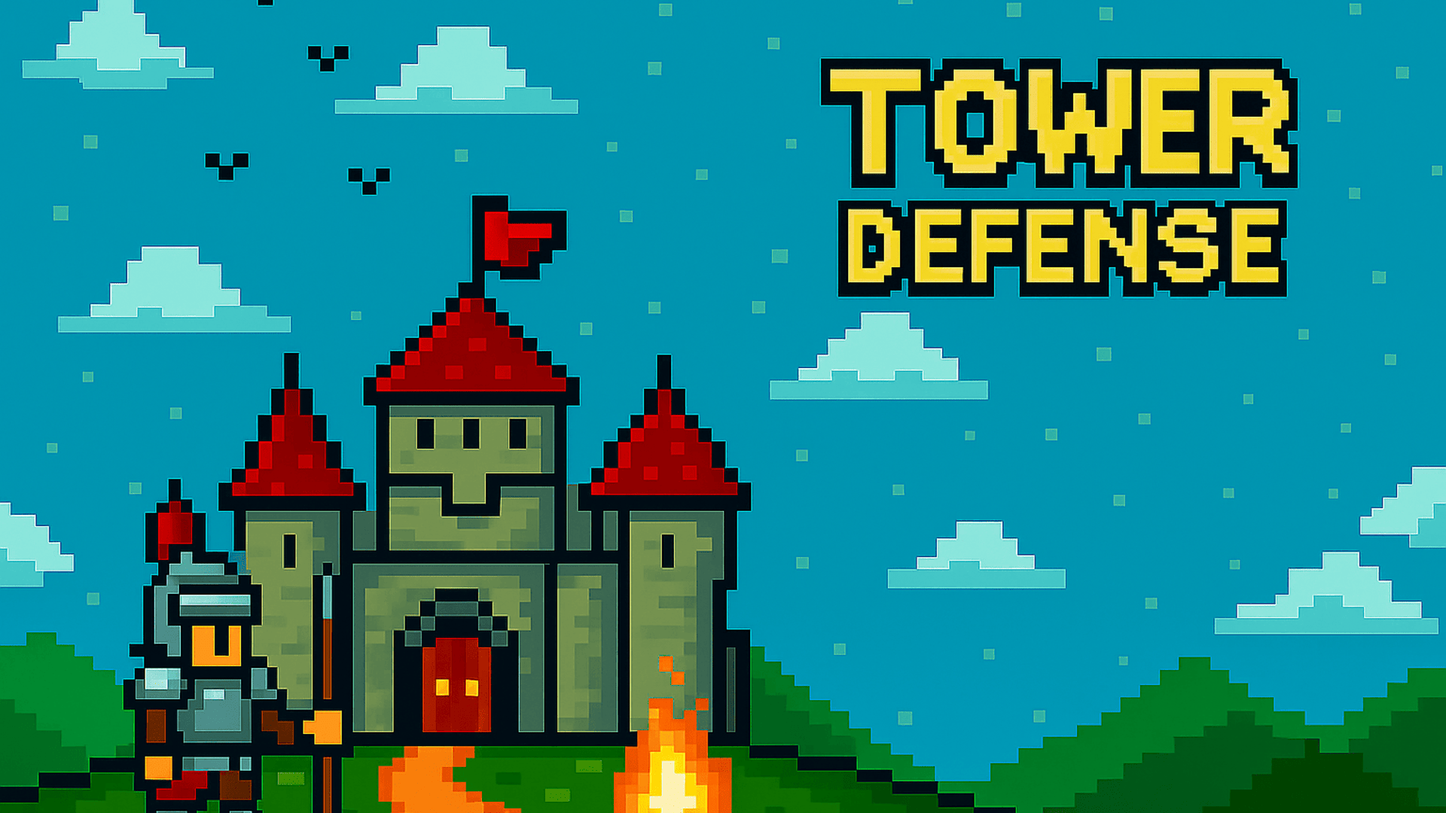
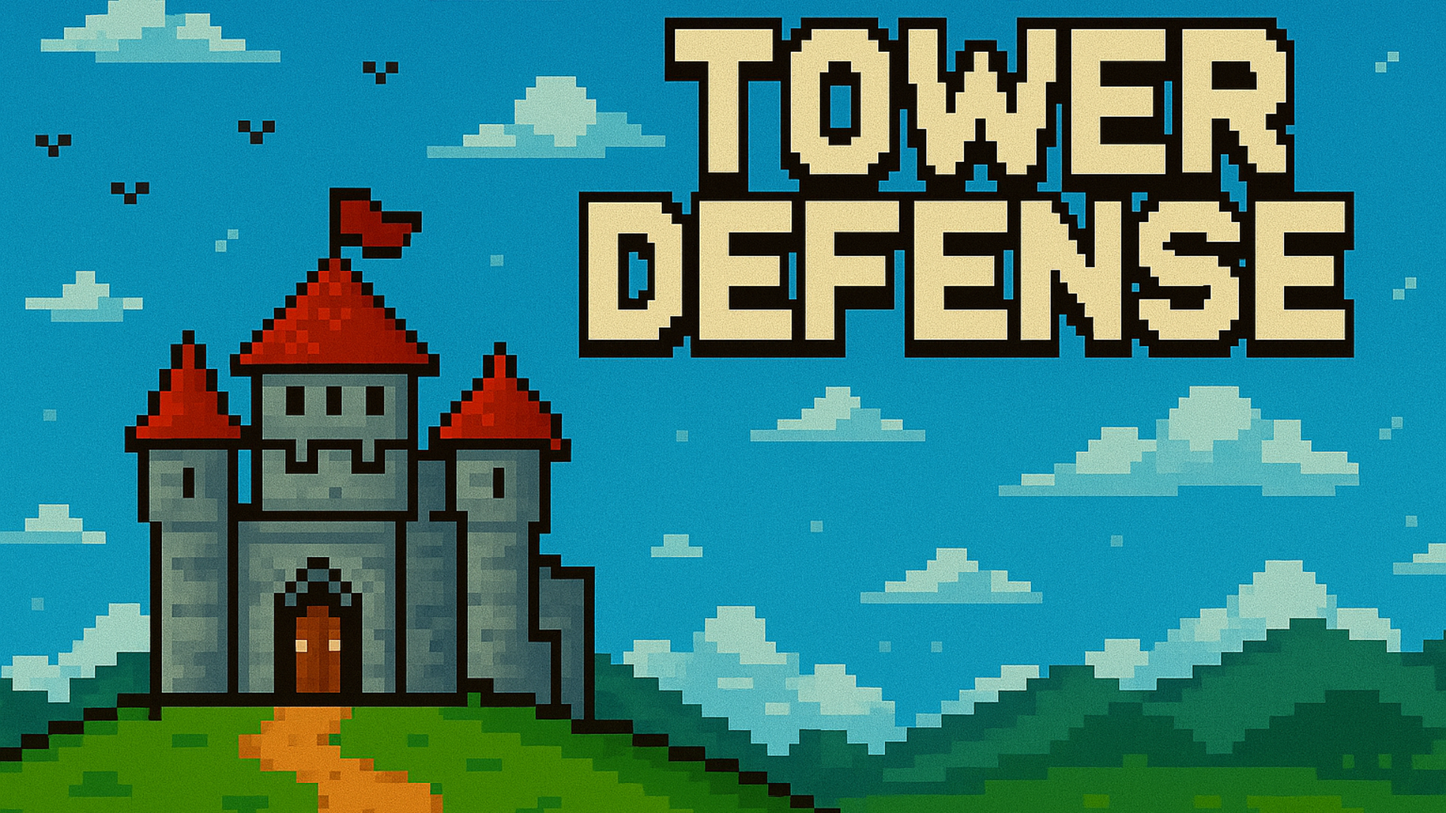
added spawnWave

diff --git a/Game.cpp b/Game.cpp
@@ -10,6 +10,7 @@ void Game::init(const string& path)
 	ifstream readconfig(path);
 	string line;
 
+	// Reading window config
 	while (getline(readconfig, line)) {
 		if (line.empty() || line[0] == '#') continue;
 		istringstream iss(line);
@@ -23,6 +24,7 @@ void Game::init(const string& path)
 		break;
 	}
 
+	// Reading bullet config
 	while (getline(readconfig, line)) {
 		if (line.empty() || line[0] == '#') continue;
 		istringstream iss(line);
@@ -30,36 +32,85 @@ void Game::init(const string& path)
 		break;
 	}
 
+	// Rading enemy config && Pre-loaded enemies
 	while (getline(readconfig, line)) {
 		if (line.empty() || line[0] == '#') continue;
 		istringstream iss(line);
-		iss >> m_enemyType1Config.filepath >> m_enemyType1Config.hp >> m_enemyType1Config.speed >> m_enemyType1Config.money;
+		iss >> m_enemyType1Config.tag >> m_enemyType1Config.filepath >> m_enemyType1Config.hp >> m_enemyType1Config.speed >> m_enemyType1Config.money;
+
+		int amount;
+		iss >> amount;
+
+		for (int i = 0; i < amount; i++)
+		{
+			auto entity = m_entites.addEntity(m_enemyType1Config.tag);
+			entity->cHealth = make_shared<CHealth>(m_enemyType1Config.hp);
+			entity->cMovement = make_shared<CMovement>(m_enemyType1Config.speed);
+			entity->cMoney = make_shared<CMoney>(m_enemyType1Config.hp);
+		}
+
 		break;
 	}
 
 	while (getline(readconfig, line)) {
 		if (line.empty() || line[0] == '#') continue;
 		istringstream iss(line);
-		iss >> m_enemyType2Config.filepath >> m_enemyType2Config.hp >> m_enemyType2Config.speed >> m_enemyType2Config.money;
+		iss >> m_enemyType2Config.tag >> m_enemyType2Config.filepath >> m_enemyType2Config.hp >> m_enemyType2Config.speed >> m_enemyType2Config.money;
 		break;
+
+		int amount;
+		iss >> amount;
+
+		for (int i = 0; i < amount; i++)
+		{
+			auto entity = m_entites.addEntity(m_enemyType2Config.tag);
+			entity->cHealth = make_shared<CHealth>(m_enemyType2Config.hp);
+			entity->cMovement = make_shared<CMovement>(m_enemyType2Config.speed);
+			entity->cMoney = make_shared<CMoney>(m_enemyType2Config.hp);
+		}
 	}
 
 	while (getline(readconfig, line)) {
 		if (line.empty() || line[0] == '#') continue;
 		istringstream iss(line);
-		iss >> m_enemyType3Config.filepath >> m_enemyType3Config.hp >> m_enemyType3Config.speed >> m_enemyType3Config.money;
+		iss >> m_enemyType3Config.tag >> m_enemyType3Config.filepath >> m_enemyType3Config.hp >> m_enemyType3Config.speed >> m_enemyType3Config.money;
 		break;
+
+		int amount;
+		iss >> amount;
+
+		for (int i = 0; i < amount; i++)
+		{
+			auto entity = m_entites.addEntity(m_enemyType3Config.tag);
+			entity->cHealth = make_shared<CHealth>(m_enemyType3Config.hp);
+			entity->cMovement = make_shared<CMovement>(m_enemyType3Config.speed);
+			entity->cMoney = make_shared<CMoney>(m_enemyType3Config.hp);
+		}
 	}
 
+	while (getline(readconfig, line)) {
+		if (line.empty() || line[0] == '#') continue;
+		istringstream iss(line);
+		int wave, mapIndex, type1, type2, type3;
+
+		iss >> wave >> mapIndex >> type1 >> type2 >> type3;
+
+		m_waveConfigs[mapIndex][wave - 1] = { type1 , type2 , type3 };
+	}
+
+	// Pre-loaded backgrounds and buttons
 	auto entity = m_scenes[AppState::MainMenu].addEntity("MainMenu");
 	entity->cSet = make_shared<CSet>("IMGS/mainMenu.png");
+
+	entity = m_scenes[AppState::Map1].addEntity("Map1");
+	entity->cSet = make_shared<CSet>("IMGS/map1.png");
 
 	entity = m_scenes[AppState::MainMenu].addEntity("PlayButton");
 	entity->cSet = make_shared<CSet>("IMGS/play.png");
 	entity->cPosition = make_shared<CPosition>(Vector2f(1100, 500));
 	entity->cInput = make_shared<CInput>([this]()
 		{
-			m_state = AppState::Game;
+			m_state = AppState::Map1;
 		},
 		[entity]()
 		{
@@ -70,6 +121,8 @@ void Game::init(const string& path)
 			entity->cSet->sprite.setColor(sf::Color(255, 255, 255));
 		}
 	);
+
+	
 }
 
 void Game::run()
@@ -105,21 +158,6 @@ void Game::sRender()
 	}
 
 	m_window.display();
-}
-
-void Game::sEnemyType1Spawner()
-{
-//
-}
-
-void Game::sEnemyType2Spawner()
-{
-//
-}
-
-void Game::sEnemyType3Spawner()
-{
-//
 }
 
 void Game::sUserInput()
@@ -186,9 +224,29 @@ void Game::sCollision()
 	//
 }
 
-void Game::spawnEnemy()
+void Game::spawnWave()
 {
-	//
+	if (m_finishWave == true)
+	{
+		WaveConfig& waveConfig = m_waveConfigs[m_mapindex][m_currentWave];
+
+		for (int i = 0; i < waveConfig.enemyType1Count; i++)
+		{
+			//
+		}
+
+		for (int i = 0; i < waveConfig.enemyType2Count; i++)
+		{
+			//
+		}
+
+		for (int i = 0; i < waveConfig.enemyType3Count; i++)
+		{
+			//
+		}
+	}
+
+	m_finishWave = false;
 }
 
 void Game::spawnBullet(shared_ptr<Entity> entity, const Vector2f& enemy_pos)

diff --git a/Game.h b/Game.h
@@ -10,14 +10,23 @@
 using namespace std;
 using namespace sf;
 
-enum class AppState { MainMenu, SettingsMenu, Game};
-struct BulletConfig { string filepath; int damage; float speed; };						//Damage, 
-struct EnemyType1Config { string filepath; int hp; float speed; int money; };			//Health, speed, money
-struct EnemyType2Config { string filepath; int hp; float speed; int money; };			//Health, speed, money
-struct EnemyType3Config { string filepath; int hp; float speed; int money; };			//Health, speed, money
+enum class AppState { MainMenu, SettingsMenu, Map1, Map2, Map3};
+
+struct BulletConfig { string filepath; int damage; float speed; };				
+
+struct EnemyType1Config { string tag; string filepath; int hp; float speed; int money; };			
+struct EnemyType2Config { string tag; string filepath; int hp; float speed; int money; };			
+struct EnemyType3Config { string tag; string filepath; int hp; float speed; int money; };
+
 struct TowerType1Config {};
 struct TowerType3Config {};
 struct TowerType2Config {};
+
+struct WaveConfig {
+	int enemyType1Count = 0;
+	int enemyType2Count = 0;
+	int enemyType3Count = 0;
+};
 
 class Game
 {
@@ -31,18 +40,25 @@ class Game
 	TowerType2Config m_towerType2Config;
 	TowerType3Config m_towerType3Config;
 
+	map<int, map<int, WaveConfig>> m_waveConfigs;                                           //m_waveConfigs[map index][wave] = { type1, type2, type3 };
+
 	map<AppState, EntityManager> m_scenes;
 	AppState m_state = AppState::MainMenu;
 
+	EntityManager m_entites;
+
+	int m_currentWave = 0;                                                                  // Keep track of current wave
+	int m_mapindex = 0;                                                                     // Default testing - Need to add option to choose map_index
 	int m_score = 0;
 	int m_currentFrame = 0;
 	int m_lastEnemySpawnTime = 0;
 
 	bool m_paused = false;
 	bool m_running = true;
+	bool m_finishWave = true;                                                               // If all enemies die -> finishWave = true -> spawnWave() -> finishWave = false -> if all enemies die -> ... 
 
 	void init(const string& config);
-	void setPause(bool paused);
+	void setPause(bool paused); 
 
 	//void sMovement(int mapIndex, float& deltaTime);										//System: Movement update
 	void sRender();																			//System: Render / Drawing enemies and menus		
@@ -53,7 +69,7 @@ class Game
 	void sUserInput();																		//System: User input
 	void sCollision();																		//System: Collision
 
-	void spawnEnemy();															
+	void spawnWave();															
 	void spawnBullet(shared_ptr<Entity> entity, const Vector2f& enemy_pos);
 
 public:

diff --git a/Components.h b/Components.h
@@ -7,6 +7,17 @@
 using namespace std;
 using namespace sf;
 
+struct CMoney
+{
+	int money = 0;
+
+	CMoney() {};
+	CMoney(const int& m)
+	{
+		money = m;
+	}
+};
+
 struct CHealth
 {
 	int hp = 0;
@@ -23,10 +34,10 @@ struct CMovement
 	float speed = 0;
 	unsigned int currentPathindex = 0;
 
-	vector<Vector2f> starting_pos = { Vector2f(500.f, 500.f),           //Starting position for map 1
-								  Vector2f(500.f, 500.f),			    //Starting position for map 2
-								  Vector2f(500.f, 500.f),			    //Starting position for map 3
-								  Vector2f(500.f, 500.f)			    //Starting position for map 4
+	vector<Vector2f> starting_pos = { Vector2f(500.f, 500.f),               //Starting position for map 1
+								      Vector2f(500.f, 500.f),			    //Starting position for map 2
+								      Vector2f(500.f, 500.f),			    //Starting position for map 3
+								      Vector2f(500.f, 500.f)			    //Starting position for map 4
 	};
 
 	vector<vector<Vector2f>> paths = { {Vector2f(0.f, 500.f),     //Cordination for map1

diff --git a/Entity.h b/Entity.h
@@ -32,6 +32,7 @@ public:
 	shared_ptr<CCollision> cCollision;
 	shared_ptr<CPosition> cPosition;
 	shared_ptr<CInput> cInput;
+	shared_ptr<CMoney> cMoney;
 
 	bool isActive() const;
 	const string& tag() const;

diff --git a/EntityManager.h b/EntityManager.h
@@ -24,9 +24,8 @@ class EntityManager
 
 public: 
 	EntityManager();
-	void update();
 
-	void removeDeadEntites(EntityVec& Vec);
+	void update();
 
 	shared_ptr<Entity> addEntity(const string& tag);
 
